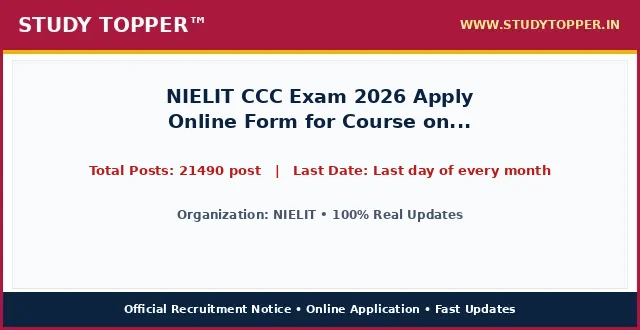
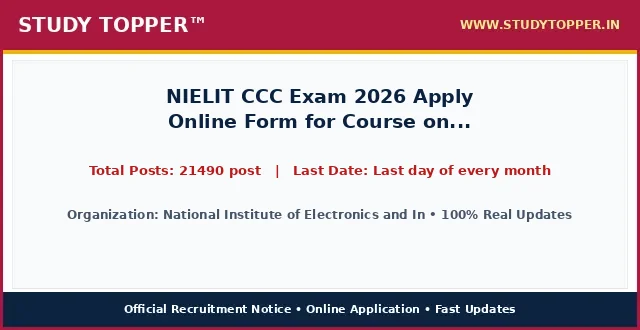
chore(lifecycle): daily auto-sort vacancies and update active dates

Changed region(s): [[0.0938, 0.6364, 0.9062, 0.6667]]

diff --git a/pages/nielit-ccc-online-form.html b/pages/nielit-ccc-online-form.html
@@ -987,12 +987,12 @@ ul.wp-block-latest-posts a:hover {
 <main class="site-main" id="main">
 <div class="gb-container gb-container-b39c368c">
 <h1 class="gb-headline gb-headline-e52a0102 gb-headline-text" style="font-size: 22px; font-weight: 700; color: #0000cd; text-align: left; margin: 8px 0 4px 0; line-height: 1.3; width: 100%; font-family: '-apple-system, BlinkMacSystemFont, 'Segoe UI', Roboto, 'Helvetica Neue', Arial, sans-serif', Times, serif, Hind, sans-serif;">NIELIT CCC Exam 2026 Apply Online Form for Course on Computer Concepts CCC</h1>
-<div class="gb-container gb-container-659bd175"><p style="color: #cd0808; font-weight: 700; font-size: 15px; margin: 2px 0 7px 0; text-align: left; font-family: '-apple-system, BlinkMacSystemFont, 'Segoe UI', Roboto, 'Helvetica Neue', Arial, sans-serif', Times, serif, Hind, sans-serif;">Post Date: August 22, 2026 12:18 PM</p></div>
-<p class="gb-headline gb-headline-550ae316 short_Details gb-headline-text" style="width: 100%; max-width: 100%; font-size: 16.8px; line-height: 1.55; color: #000000; text-align: justify; text-justify: inter-word; margin: 8px 0 14px 0; display: block; font-family: '-apple-system, BlinkMacSystemFont, 'Segoe UI', Roboto, 'Helvetica Neue', Arial, sans-serif', Times, serif, Hind, sans-serif;"><strong style="color: #0000cd;">NIELIT</strong> has officially published the recruitment notice <strong style="color: #cd0808;">NIELIT CCC Exam 2026 Apply Online Form for Course on Computer Concepts CCC</strong> under notification number 2026. Online applications are invited for 21490 post across multiple departments and cadre positions. Interested candidates possessing the requisite educational qualifications and falling between 18 Years to 40 Years can complete their online registration before the application deadline of Last day of every month. Applicants should read the eligibility criteria, category reservation rules, and exam scheme thoroughly before submitting applications.</p>
+<div class="gb-container gb-container-659bd175"><p style="color: #cd0808; font-weight: 700; font-size: 15px; margin: 2px 0 7px 0; text-align: left; font-family: '-apple-system, BlinkMacSystemFont, 'Segoe UI', Roboto, 'Helvetica Neue', Arial, sans-serif', Times, serif, Hind, sans-serif;">Post Date: August 22, 2026 01:08 PM</p></div>
+<p class="gb-headline gb-headline-550ae316 short_Details gb-headline-text" style="width: 100%; max-width: 100%; font-size: 16.8px; line-height: 1.55; color: #000000; text-align: justify; text-justify: inter-word; margin: 8px 0 14px 0; display: block; font-family: '-apple-system, BlinkMacSystemFont, 'Segoe UI', Roboto, 'Helvetica Neue', Arial, sans-serif', Times, serif, Hind, sans-serif;"><strong style="color: #0000cd;">National Institute of Electronics and Information Technology (NIELIT)</strong> has officially published the recruitment notice <strong style="color: #cd0808;">NIELIT CCC Exam 2026 Apply Online Form for Course on Computer Concepts CCC</strong> under notification number Official Notification 2026. Online applications are invited for 21490 post across multiple departments and cadre positions. Interested candidates possessing the requisite educational qualifications and falling between 18 Years to 40 Years can complete their online registration before the application deadline of Last day of every month. Applicants should read the eligibility criteria, category reservation rules, and exam scheme thoroughly before submitting applications.</p>
 <div class="gb-container gb-container-9849916c"><div class="social-buttons-compact" style="display: flex; justify-content: flex-start; align-items: center; gap: 10px; margin: 10px 0 16px 0; width: 100%;"><a class="social-btn-compact wa" href="https://whatsapp.com/channel/0029Va9xyz" rel="noopener" style="background-color: #00d084; color: #ffffff; padding: 10px 18px; border-radius: 4px; text-decoration: none; font-weight: bold; font-size: 15.5px; display: inline-flex; align-items: center; justify-content: center; height: auto;" target="_blank">WhatsApp</a><a class="social-btn-compact tg" href="https://t.me/studytopperofficial" rel="noopener" style="background-color: #0088cc; color: #ffffff; padding: 10px 18px; border-radius: 4px; text-decoration: none; font-weight: bold; font-size: 15.5px; display: inline-flex; align-items: center; justify-content: center; height: auto;" target="_blank">Telegram</a></div></div>
 <div class="gb-container gb-container-f58e6ca1" style="border: 2px solid #5b032f; border-radius: 4px; overflow: hidden; margin: 15px 0 20px 0; background-color: #ffffff; width: 100%; box-sizing: border-box;">
 <h2 class="gb-headline gb-headline-2ca5a791 gb-headline-text" style="font-size: 16px; font-weight: 700; text-align: center; color: #ef0303; line-height: 1.3; padding: 6px 4px; margin: 0; background: #ffffff; font-family: '-apple-system, BlinkMacSystemFont, 'Segoe UI', Roboto, 'Helvetica Neue', Arial, sans-serif', Times, serif, Hind, sans-serif;">NIELIT CCC Exam 2026 Apply Online Form for Course on Computer Concepts CCC &ndash; Latest Details &amp; Updates</h2>
-<h3 class="gb-headline gb-headline-7d5f86e8 gb-headline-text" style="font-size: 16px; font-weight: 600; text-align: center; color: #009703; line-height: 1.25; margin: 0; padding: 2px 4px 6px 4px; background: #ffffff; font-family: '-apple-system, BlinkMacSystemFont, 'Segoe UI', Roboto, 'Helvetica Neue', Arial, sans-serif', Times, serif, Hind, sans-serif;">NIELIT : Details &amp; Summary</h3>
+<h3 class="gb-headline gb-headline-7d5f86e8 gb-headline-text" style="font-size: 16px; font-weight: 600; text-align: center; color: #009703; line-height: 1.25; margin: 0; padding: 2px 4px 6px 4px; background: #ffffff; font-family: '-apple-system, BlinkMacSystemFont, 'Segoe UI', Roboto, 'Helvetica Neue', Arial, sans-serif', Times, serif, Hind, sans-serif;">National Institute of Electronics and Information Technology (NIELIT) : Details &amp; Summary</h3>
 <p class="gb-headline gb-headline-79adf169 gb-headline-text" style="margin: 0 0 6px 0; font-family: '-apple-system, BlinkMacSystemFont, 'Segoe UI', Roboto, 'Helvetica Neue', Arial, sans-serif', Times, serif, Hind, sans-serif; text-align: center; font-size: 18px; font-weight: 700;"><a href="/" style="color: #0000ff; text-decoration: underline;">StudyTopper.in</a></p>
 
 <style id="st-post-boxes-responsive-css">
@@ -1047,7 +1047,7 @@ ul.wp-block-latest-posts a:hover {
 <div class="st-grid-row" style="display: flex; flex-wrap: wrap; width: 100%; border-top: 2px solid #5b032f; margin: 0; padding: 0; box-sizing: border-box;">
   <!-- Left Col: Age Limits -->
   <div class="st-col-half st-col-border-right" style="box-sizing: border-box; vertical-align: top;">
-    <div style="background-color: #046132; color: #ffffff; padding: 8px 10px; font-size: 17px; font-weight: 700; text-align: center; font-family: '-apple-system, BlinkMacSystemFont, 'Segoe UI', Roboto, 'Helvetica Neue', Arial, sans-serif', Times, serif, Hind, sans-serif;">NIELIT : Age Limits As On 01/08/2026</div>
+    <div style="background-color: #046132; color: #ffffff; padding: 8px 10px; font-size: 17px; font-weight: 700; text-align: center; font-family: '-apple-system, BlinkMacSystemFont, 'Segoe UI', Roboto, 'Helvetica Neue', Arial, sans-serif', Times, serif, Hind, sans-serif;">National Institute of Electronics and Information Technology (NIELIT) : Age Limits As On 01/08/2026</div>
     <div style="padding: 12px 14px; background-color: #ffffff;">
       <ul style="padding-left: 20px; margin: 0; list-style-type: disc; text-align: left; font-size: 14pt; line-height: 1.6; font-family: '-apple-system, BlinkMacSystemFont, 'Segoe UI', Roboto, 'Helvetica Neue', Arial, sans-serif', Times, serif, Hind, sans-serif;">
         <li><span style="font-size: 14pt;">Minimum Age : <strong>NA</strong></span></li><li><span style="font-size: 14pt;">Maximum Age : <strong>NA</strong></span></li>
@@ -1079,9 +1079,9 @@ ul.wp-block-latest-posts a:hover {
 <th style="background-color: #f53c00; color: #ffffff; padding: 6px 10px; text-align: center; border: 1px solid #d35400; font-size: 15px; font-weight: 700; font-family: '-apple-system, BlinkMacSystemFont, 'Segoe UI', Roboto, 'Helvetica Neue', Arial, sans-serif', Times, serif, Hind, sans-serif;">Eligibility Criteria</th>
 </tr>
 <tr>
-<td style="padding: 8px; border: 1px solid #ddd; font-weight: bold;">NIELIT NIELIT CCC Exam 2026 Apply Online Form for Course on Computer Concepts CCC</td>
+<td style="padding: 8px; border: 1px solid #ddd; font-weight: bold;">NIELIT CCC Exam 2026 Apply Online Form for Course on Computer Concepts CCC</td>
 <td style="padding: 8px; border: 1px solid #ddd; text-align: center; font-weight: bold;">21490 post</td>
-<td style="padding: 8px; border: 1px solid #ddd;">Passed relevant Educational Qualification from Any Recognized Board / University in India. Read full official notification for post-wise details.</td>
+<td style="padding: 8px; border: 1px solid #ddd;">Passed prescribed Educational Qualification from Any Recognized Board / University in India. Read full official notification for post-wise eligibility criteria.</td>
 </tr>
 </tbody>
 </table>
@@ -1093,7 +1093,7 @@ ul.wp-block-latest-posts a:hover {
 <table style="border-collapse: collapse; width: 100%;">
 <tbody>
 <tr>
-<td style="width: 100%; text-align: center;"><span style="background-color: #000080; color: #ffffff; font-size: 14pt; font-weight: bold; display: block; padding: 6px;"> How to Fill NIELIT Online Application Form </span></td>
+<td style="width: 100%; text-align: center;"><span style="background-color: #000080; color: #ffffff; font-size: 14pt; font-weight: bold; display: block; padding: 6px;"> How to Fill National Institute of Electronics and Information Technology (NIELIT) Online Application Form </span></td>
 </tr>
 <tr>
 <td style="width: 100%;"><ol style="margin:0; padding-left:18px; text-align: left !important; list-style-position: outside !important"><li style="margin-bottom:6px; text-align: left !important;">(adsbygoogle = window.adsbygoogle || []).push({});</li><li style="margin-bottom:6px; text-align: left !important;">Candidate Can Click on the Apply Online Form</li><li style="margin-bottom:6px; text-align: left !important;">Fill the All Basic Details Name, Father Name, Date of Birth and Aadhar Card, Contact Details</li><li style="margin-bottom:6px; text-align: left !important;">Upload Candidate Passport Size</li><li style="margin-bottom:6px; text-align: left !important;">Photo, Signature and Thumb</li><li style="margin-bottom:6px; text-align: left !important;">Pay the Examination Fee and Complete the Application Form.</li><li style="margin-bottom:6px; text-align: left !important;">Take A Print Out of Application Form</li><li style="margin-bottom:6px; text-align: left !important;">Next Month First Week You have Download Admit Card to Enter Your Application No. and DOB</li><li style="margin-bottom:6px; text-align: left !important;">Resize candidate photograph and signature accurately using the <a href="https://indtool.in" rel="noopener" target="_blank"><strong>StudyTopper Tools</strong></a> image resizer at indtool.in.</li></ol></td>
@@ -1104,7 +1104,7 @@ ul.wp-block-latest-posts a:hover {
 <table style="border-collapse: collapse; width: 100%;">
 <tbody>
 <tr>
-<td style="width: 100%; text-align: center;"><span style="background-color: #000080; color: #ffffff; font-size: 14pt;"><strong><span style="color: #ffffff;"> NIELIT Recruitment 2026 : Mode Of Selection </span></strong></span></td>
+<td style="width: 100%; text-align: center;"><span style="background-color: #000080; color: #ffffff; font-size: 14pt;"><strong><span style="color: #ffffff;"> National Institute of Electronics and Information Technology (NIELIT) Recruitment 2026 : Mode Of Selection </span></strong></span></td>
 </tr>
 <tr>
 <td style="width: 100%;">
